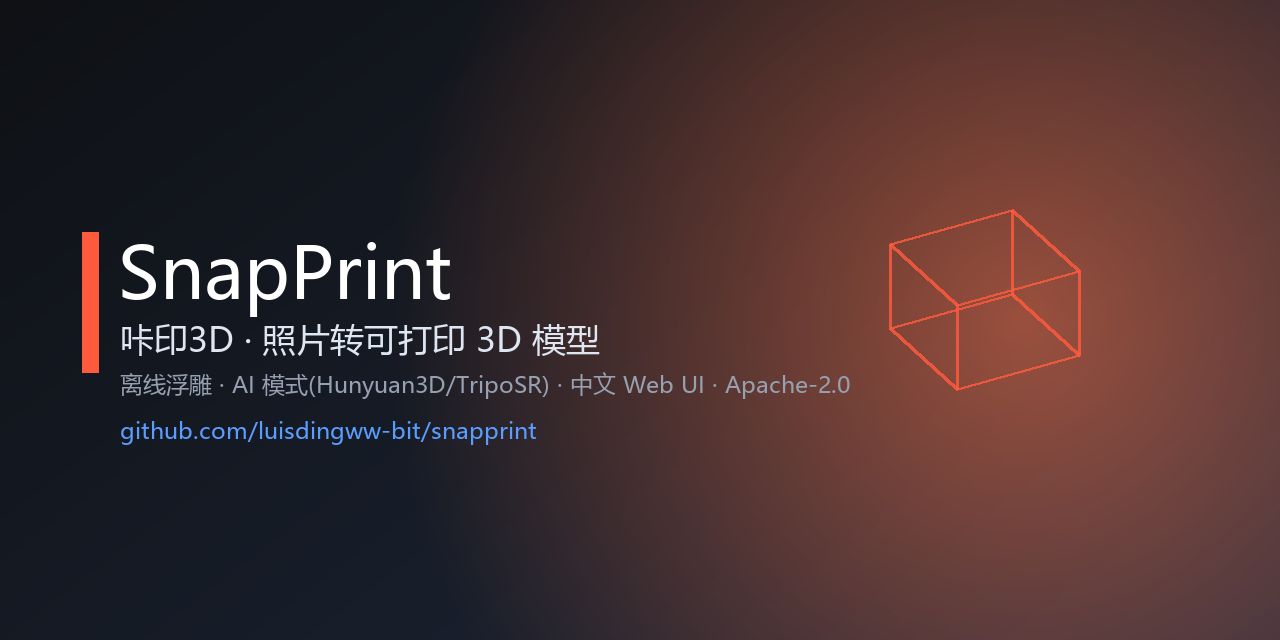
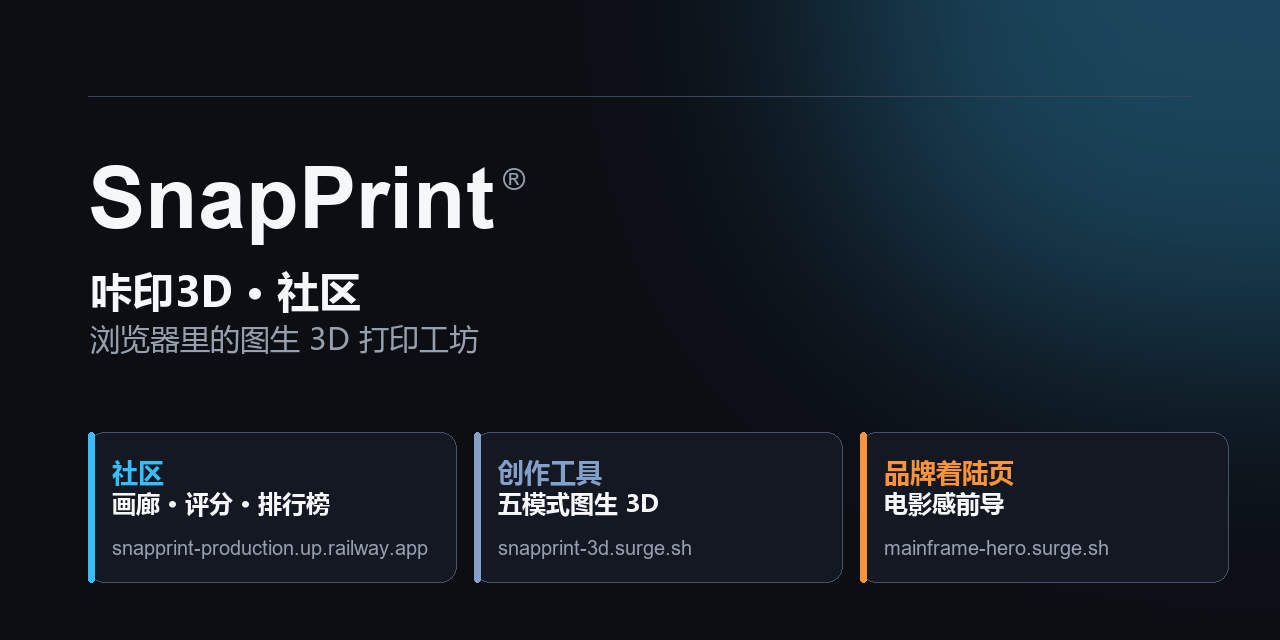
docs: 更新 README 网页链接与社交预览图
- README: 替换过期 codebuddy.work 预览链接为三站入口表（Railway 社区/surge 工具/mainframe 着陆页）
- social-preview.png: 重渲 SnapPrint 品牌社交卡 1280x640，含三站入口

diff --git a/README.md b/README.md
@@ -3,7 +3,15 @@
 > 上传你自己的 3D 模型，系统自动分析「它能不能打」，并分享到社区画廊让成员一起看。
 > 开源 · 中文友好 · Apache-2.0 商用友好。
 
-**🌐 在线 UI 预览（前端）：<https://e987b12ce3c541599e63f76bfc9fc8cf.app.codebuddy.work>** —— 纯静态预览，画廊 / 上传 / 评论需后端。完整社区推荐用 **Railway 一键部署**（见 [docs/部署.md 第七节](docs/部署.md)），或本地 `python -m app.main`。
+**🌐 在线体验（已部署，前端直连后端）：**
+
+| 站点 | 地址 | 说明 |
+|---|---|---|
+| 社区 · 画廊 / 评分 / 排行榜 | <https://snapprint-production.up.railway.app/> | 完整社区：可打印性分析 + 社区评分（中位数 / 标准差 / 4★+ 占比 + 文字分析） |
+| 创作工具 · 五模式图生 3D | <https://snapprint-3d.surge.sh/> | 照片浮雕 / 2D 轮廓拉伸 / 真实 3D 几何 / 模型库(33 款) / 3DGS 高斯泼溅 |
+| 品牌着陆页 · 电影感前导 | <https://mainframe-hero.surge.sh/> | 视频擦洗首屏，一键进入工作台与社区 |
+
+> 社区与工具均前端直连后端；本地运行见 `python -m app.main`，或 **Railway 一键部署**（见 [docs/部署.md 第七节](docs/部署.md)）。
 
 ---
 
